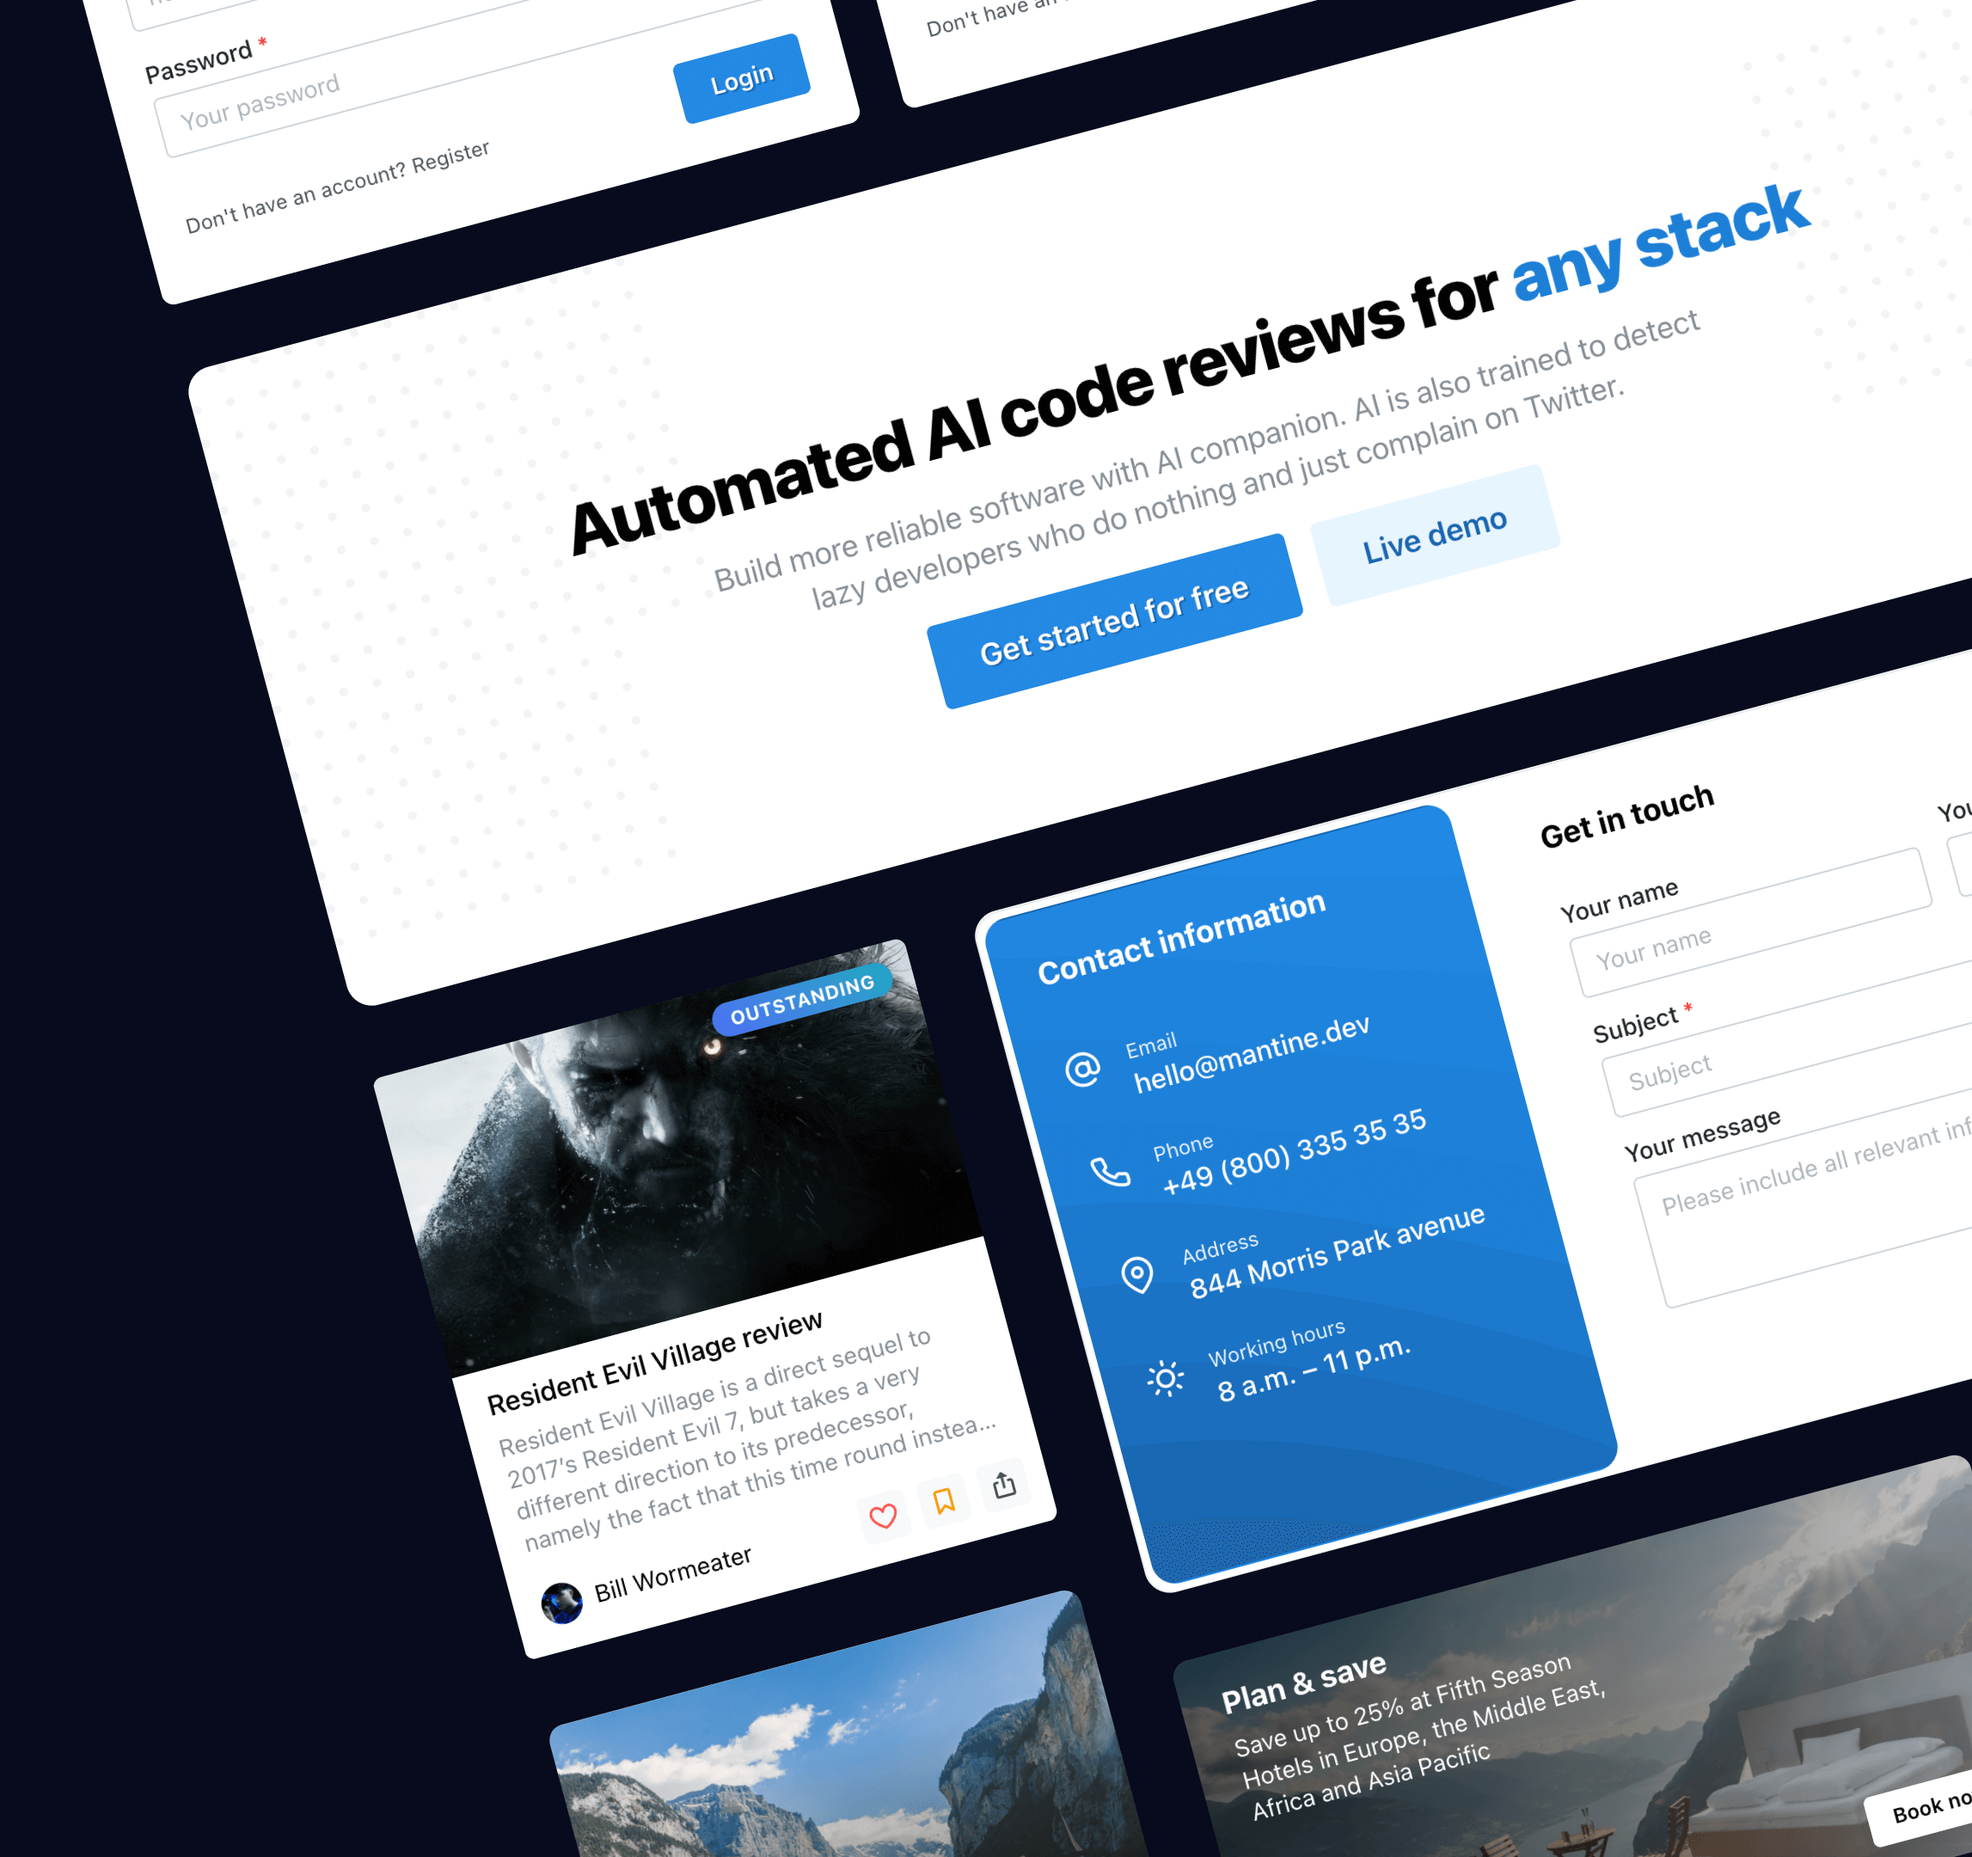
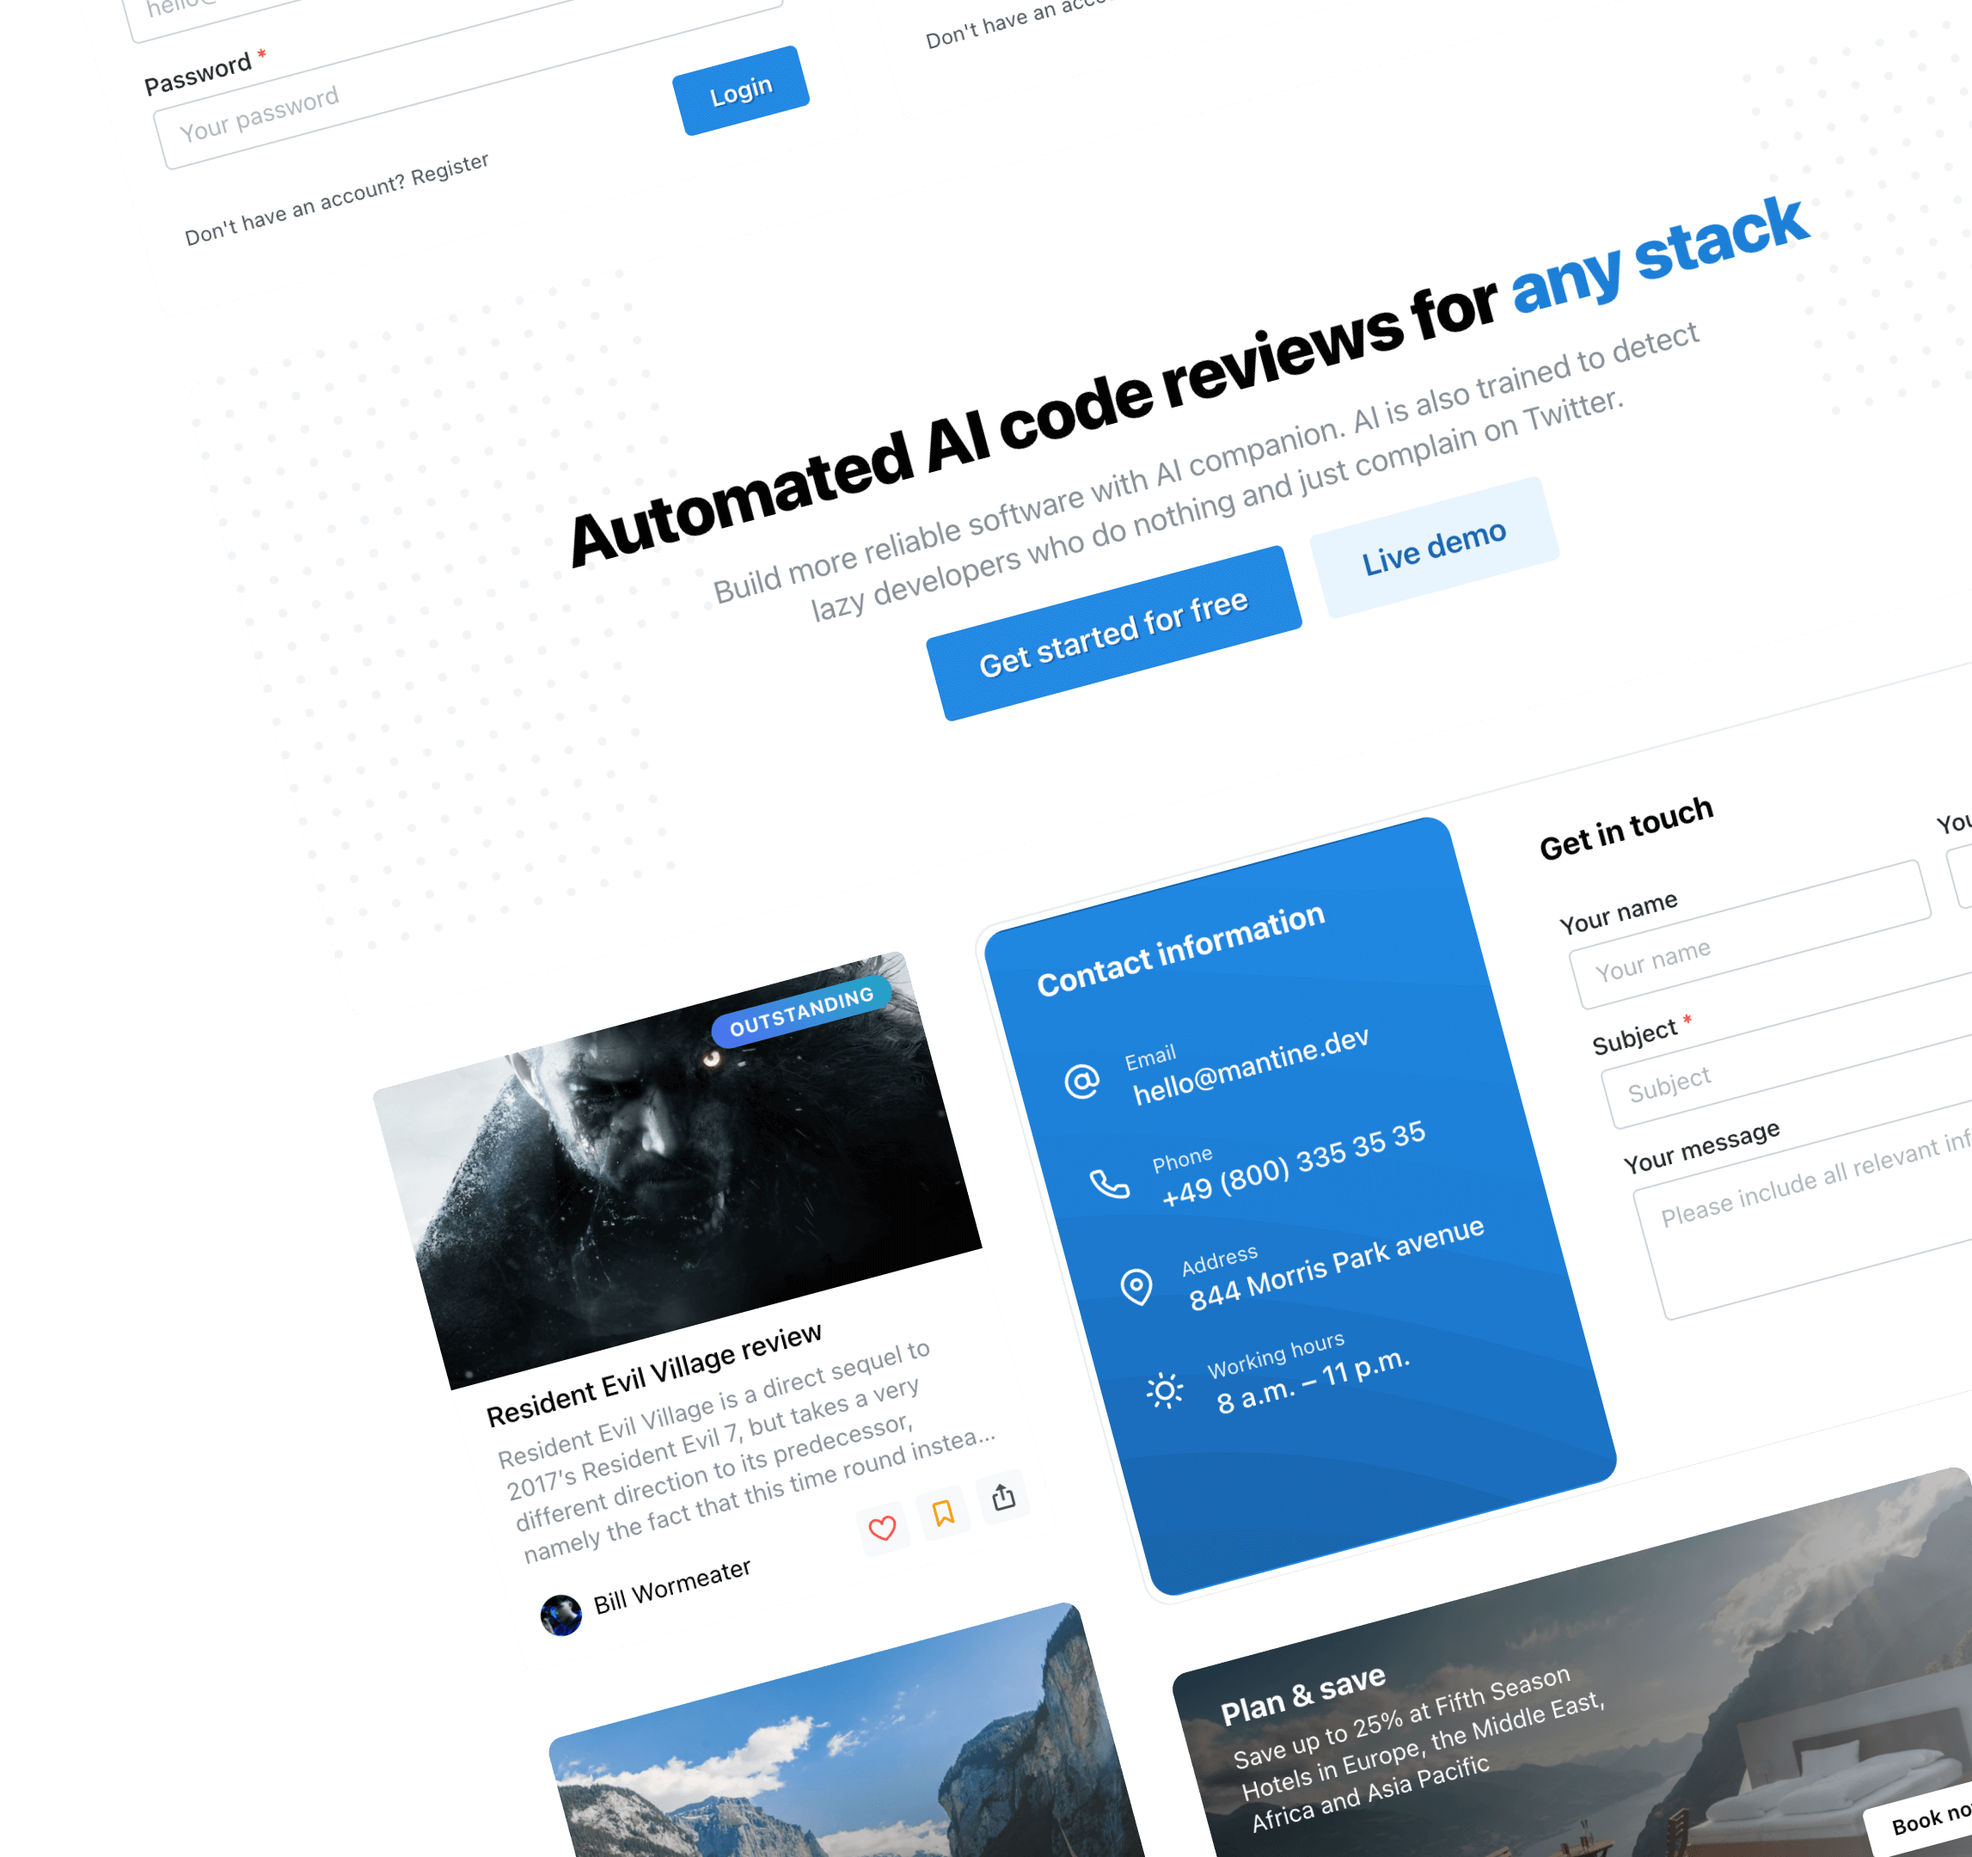
[docs] Add color scheme switch to GalleryBanner

diff --git a/docs/src/components/Gallery/components/GalleryBanner/GalleryBanner.styles.ts b/docs/src/components/Gallery/components/GalleryBanner/GalleryBanner.styles.ts
@@ -7,20 +7,20 @@ export default createUseStyles(
     wrapper: {
       position: 'relative',
       minHeight: 700,
-      backgroundColor: '#080a1d',
+      backgroundColor: theme.colorScheme === 'dark' ? theme.colors.dark[8] : theme.colors.gray[1],
     },
 
     supTitle: {
       fontSize: theme.fontSizes.sm,
       textTransform: 'uppercase',
       fontWeight: 700,
-      color: theme.white,
+      color: theme.colorScheme === 'dark' ? theme.white : theme.black,
       opacity: 0.8,
       marginBottom: theme.spacing.sm,
     },
 
     title: {
-      color: theme.white,
+      color: theme.colorScheme === 'dark' ? theme.white : theme.black,
       fontSize: 44,
       letterSpacing: -1,
       lineHeight: 1.2,
@@ -28,11 +28,11 @@ export default createUseStyles(
     },
 
     highlight: {
-      color: '#69f3fa',
+      color: theme.colorScheme === 'dark' ? theme.colors.yellow[4] : theme.colors.cyan[6],
     },
 
     description: {
-      color: '#d7dafa',
+      color: theme.colorScheme === 'dark' ? theme.colors.dark[2] : theme.colors.gray[7],
       maxWidth: 580,
       marginTop: theme.spacing.md,
     },
@@ -81,14 +81,14 @@ export default createUseStyles(
     },
 
     controlMain: {
-      backgroundColor: theme.white,
-      color: '#333980',
+      color: theme.colorScheme === 'dark' ? theme.colors.dark[7] : theme.white,
+      backgroundColor: theme.colorScheme === 'dark' ? theme.colors.yellow[4] : theme.colors.cyan[6],
       textShadow: 'none',
     },
 
     controlSecondary: {
-      backgroundColor: '#4a5085',
-      color: theme.white,
+      backgroundColor: theme.colorScheme === 'dark' ? theme.colors.dark[4] : theme.white,
+      color: theme.colorScheme === 'dark' ? theme.white : theme.black,
       textShadow: 'none',
     },
 
@@ -102,7 +102,8 @@ export default createUseStyles(
     },
 
     featureIcon: {
-      backgroundColor: '#303561',
+      color: theme.colorScheme === 'dark' ? theme.colors.yellow[4] : theme.colors.cyan[6],
+      backgroundColor: theme.colorScheme === 'dark' ? theme.colors.dark[4] : theme.white,
     },
 
     featureBody: {
@@ -110,14 +111,14 @@ export default createUseStyles(
     },
 
     featureTitle: {
-      color: theme.white,
+      color: theme.colorScheme === 'dark' ? theme.white : theme.black,
       fontWeight: 500,
       lineHeight: 1,
       marginBottom: 7,
     },
 
     featureDescription: {
-      color: '#d7dafa',
+      color: theme.colorScheme === 'dark' ? theme.colors.dark[2] : theme.colors.gray[7],
       fontSize: theme.fontSizes.xs,
     },
   }),

diff --git a/docs/src/components/Gallery/components/GalleryBanner/GalleryBanner.tsx b/docs/src/components/Gallery/components/GalleryBanner/GalleryBanner.tsx
@@ -10,6 +10,7 @@ import {
   ThemeIcon,
   SimpleGrid,
   Container,
+  useMantineTheme,
 } from '@mantine/core';
 import { useWindowScroll } from '@mantine/hooks';
 import data from './data';
@@ -22,6 +23,7 @@ interface GalleryBannerProps {
 export function GalleryBanner({ componentsCount }: GalleryBannerProps) {
   const classes = useStyles();
   const [, scrollTo] = useWindowScroll();
+  const theme = useMantineTheme();
 
   const features = data.map((feature) => (
     <div key={feature.title}>
@@ -41,7 +43,9 @@ export function GalleryBanner({ componentsCount }: GalleryBannerProps) {
       <Container size="xl" padding={0}>
         <div className={classes.image} />
         <Overlay
-          gradient="linear-gradient(45deg, #0d1138 25%, rgba(0, 0, 0, 0) 95%)"
+          gradient={`linear-gradient(45deg, ${
+            theme.colorScheme === 'dark' ? theme.colors.dark[8] : theme.colors.gray[2]
+          } 25%, rgba(0, 0, 0, 0) 95%)`}
           opacity={0.5}
           zIndex={1}
         />
